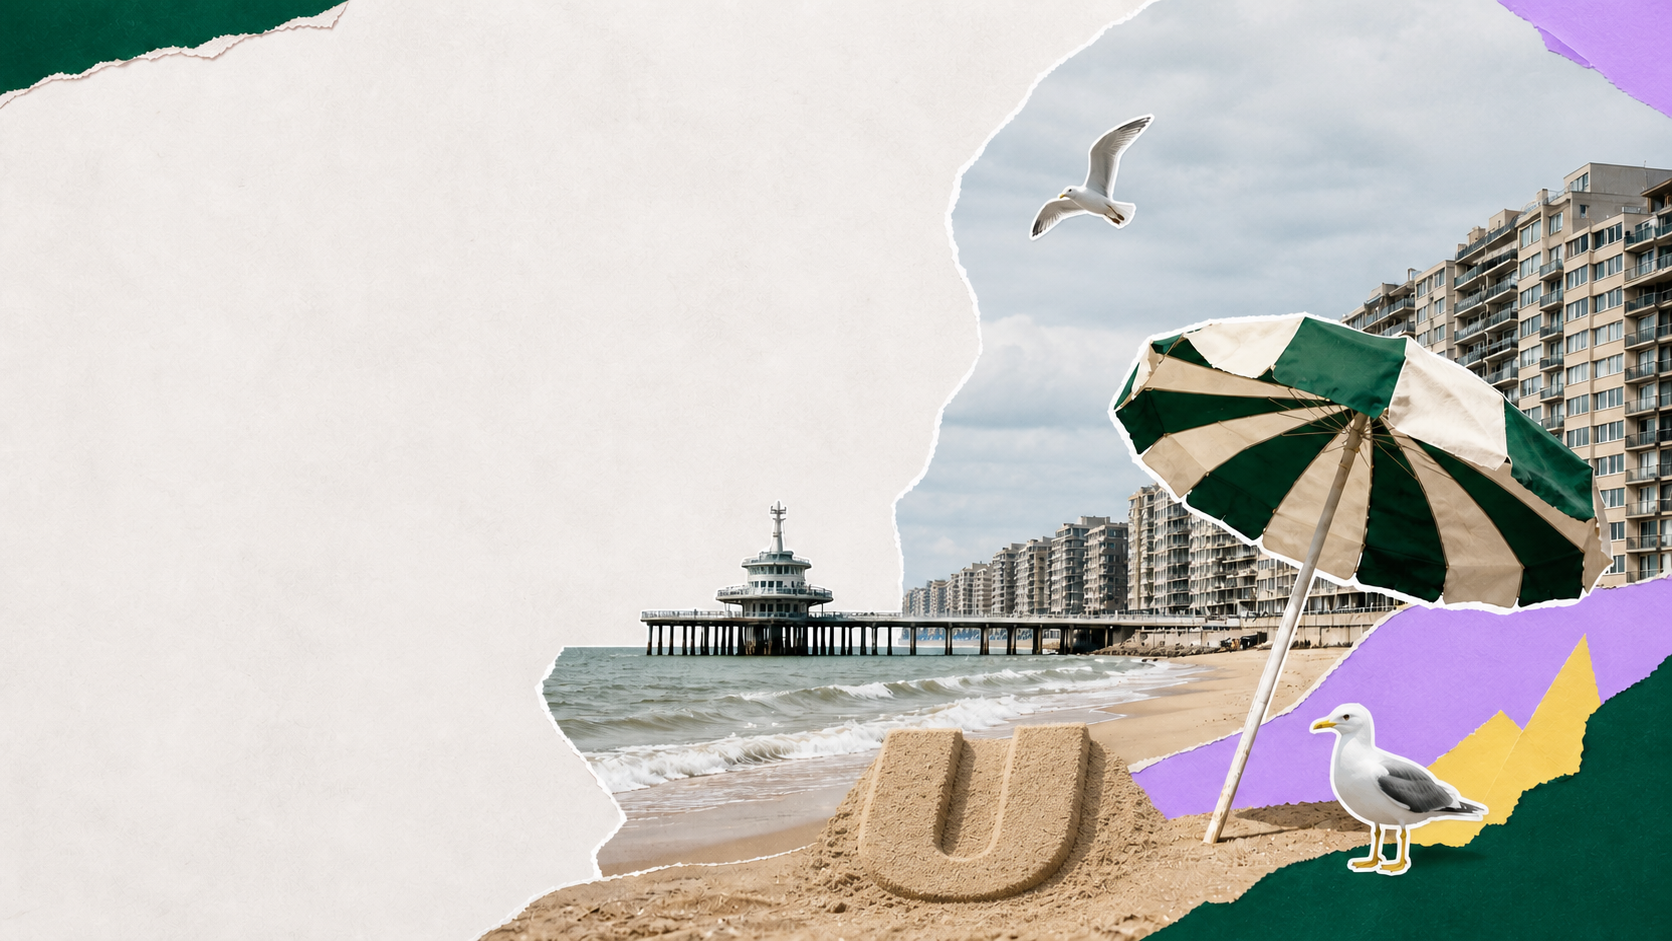
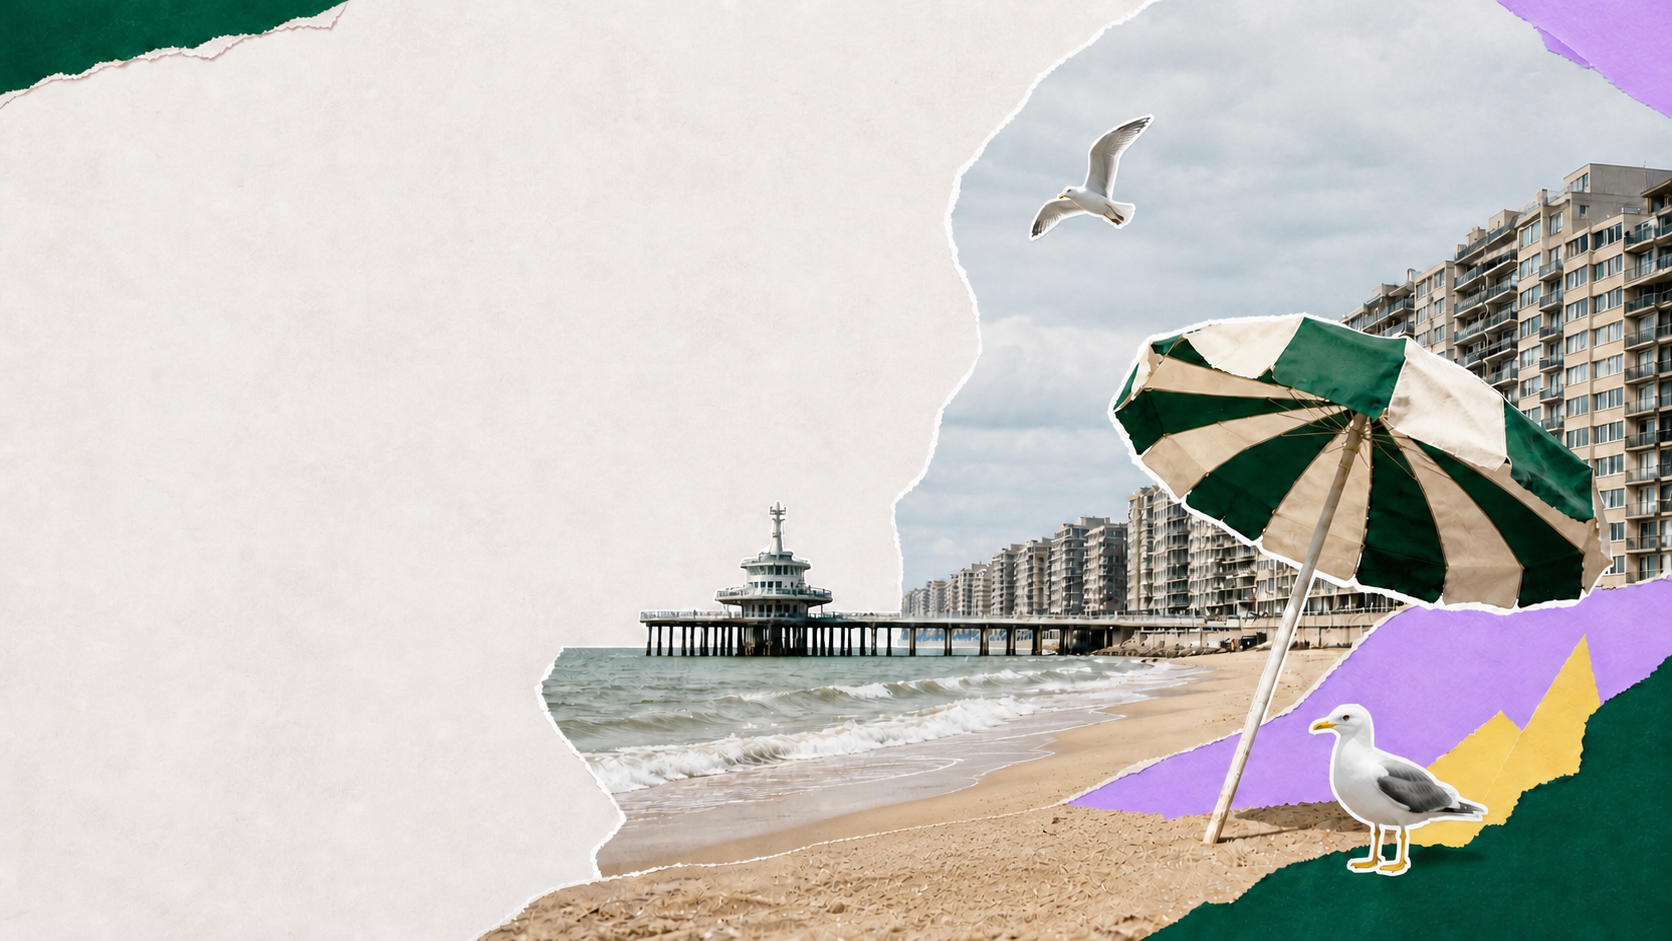
Use flat U mark on cover

diff --git a/docs/styles.css b/docs/styles.css
@@ -8,3 +8,4 @@
 .dots{position:fixed;z-index:50;right:18px;top:50%;transform:translateY(-50%);display:flex;flex-direction:column;gap:9px}.dots button{width:9px;height:9px;border:0;border-radius:99px;padding:0;background:rgba(0,75,54,.3);cursor:pointer}.dots button.active{height:28px;background:var(--green)}.controls{position:fixed;z-index:50;right:18px;bottom:18px;display:flex;gap:6px}.controls button{width:43px;height:43px;border:0;border-radius:50%;background:var(--green);color:var(--paper);cursor:pointer;box-shadow:var(--shadow)}.controls button:disabled{opacity:.3}
 @media(max-width:850px){html{scroll-snap-type:y proximity}.chrome{padding:0 14px}.chrome img{width:135px}.slide-frame{padding:28px 24px 52px}.slide-head{display:block}.slide h2{text-align:left;margin-top:18px}.two-column,.two-column.balanced,.card-grid.three,.card-grid.four,.card-grid.two{grid-template-columns:1fr}.side-stack{grid-template-rows:auto}.media-card{min-height:220px}.portrait-card{min-height:320px}.card-grid{padding-bottom:20px}.wish-cards{grid-template-rows:auto}.large-cards .idea-card,.format-card,.idea-card{min-height:auto}.cover-image{object-position:58% center}.cover-copy{padding:34px 24px;justify-content:flex-start;padding-top:18vh}.cover h1{font-size:clamp(94px,27vw,170px)}.dots,.controls{display:none}}
 @media(prefers-reduced-motion:reduce){html{scroll-behavior:auto}.progress span{transition:none}}
+.cover-u{position:absolute;z-index:3;left:61.4%;top:86.6%;width:clamp(72px,8.5vw,138px);height:auto;transform:translate(-50%,-50%)}

diff --git a/docs/index.html b/docs/index.html
@@ -21,6 +21,7 @@
 <main>
   <section id="start" class="slide cover" data-label="Formats">
     <img class="cover-image" src="photos/oostende-cutout.png" alt="Cut-outcollage van Oostende met pier, strand en meeuwen">
+    <img class="cover-u" src="brand/u-flat.svg" alt="">
     <div class="cover-copy">
       <p class="kicker">TEAMDAG · OOSTENDE · AUGUSTUS 2026</p>
       <h1>FORMATS</h1>
